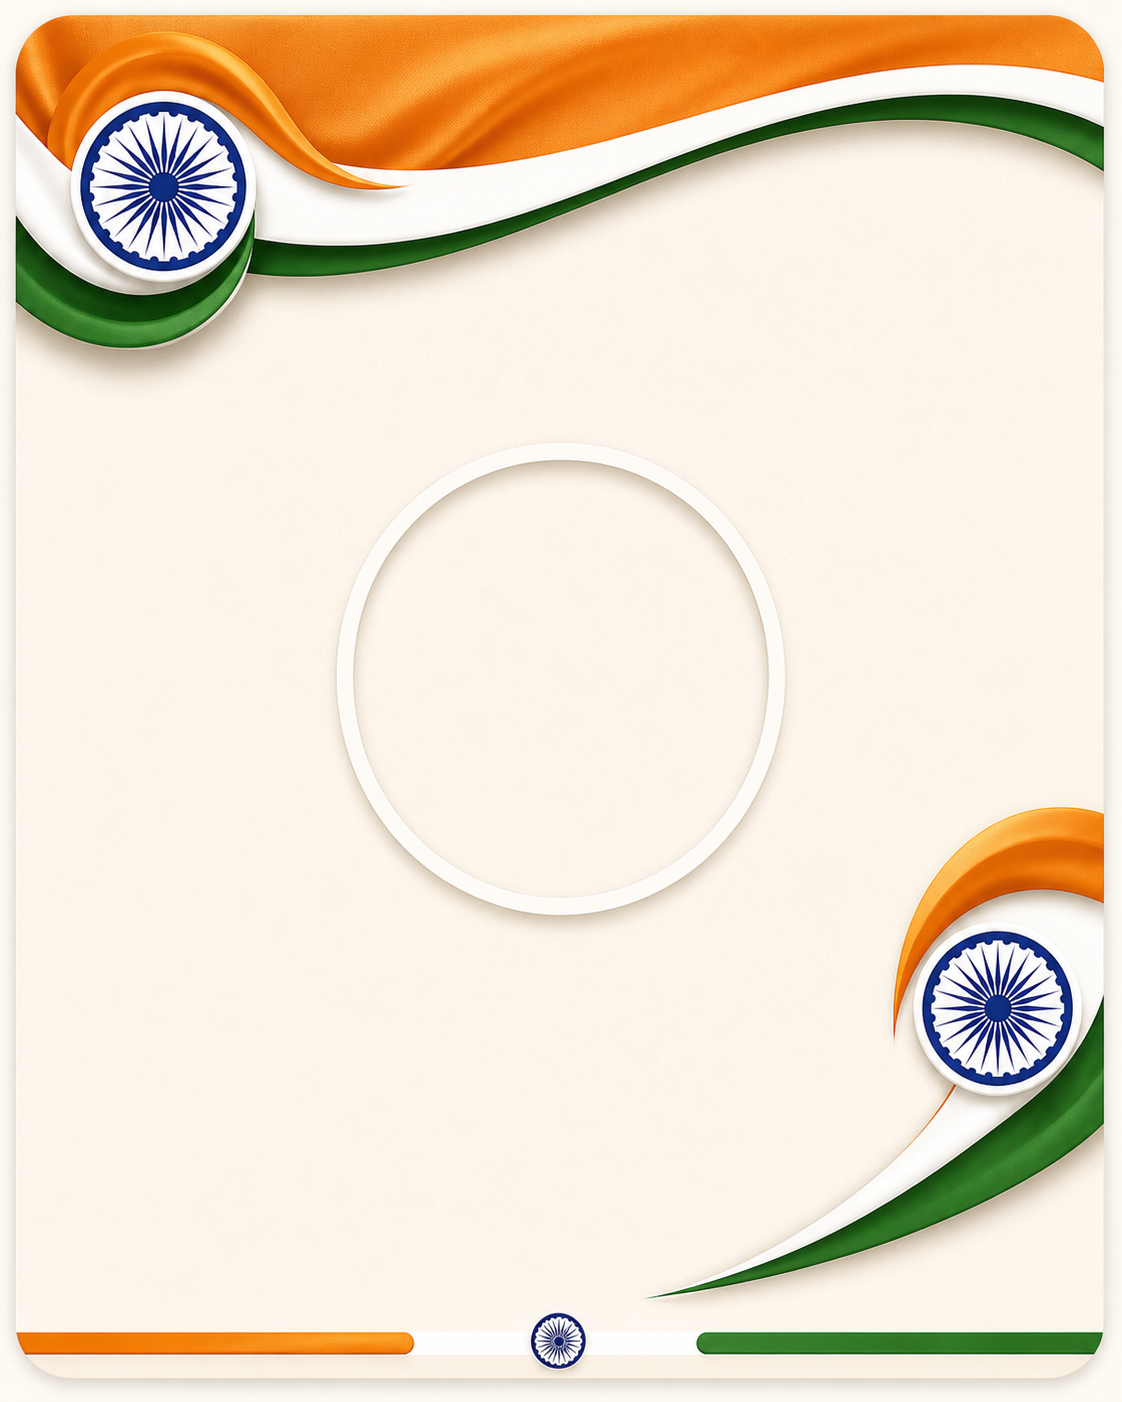
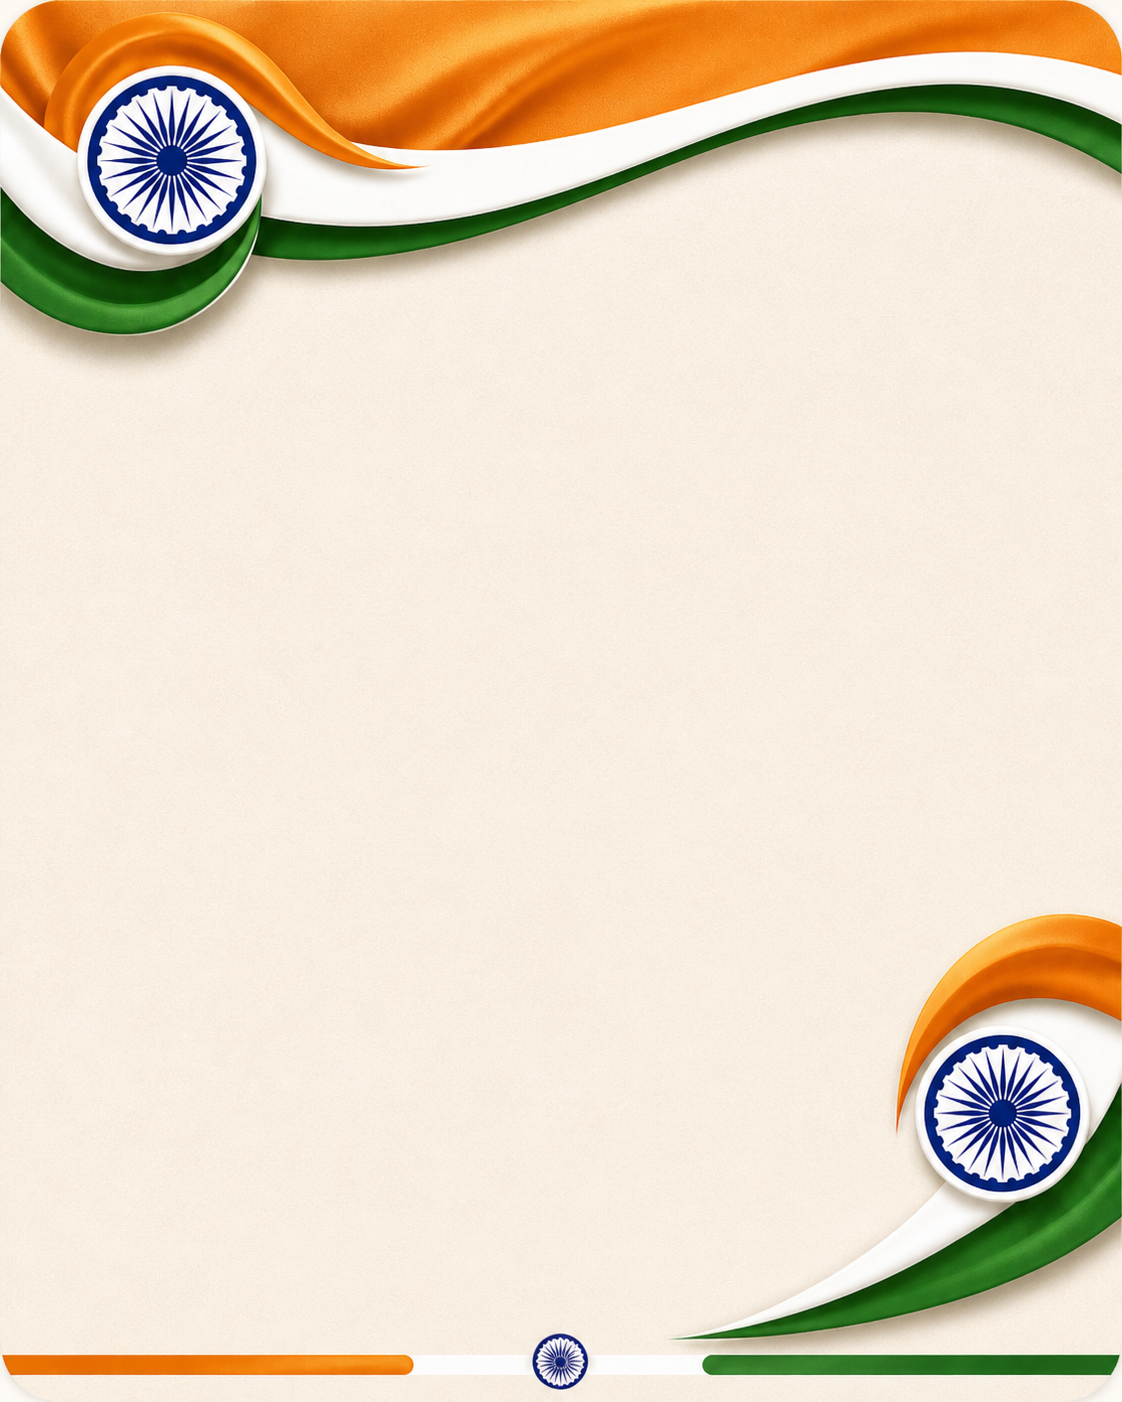
update

diff --git a/docs/app.js b/docs/app.js
@@ -417,6 +417,17 @@ function drawTemplatePhoto(ctx, image, x, y, radius) {
   ctx.restore();
 }
 
+function drawPhotoFrame(ctx, x, y, radius) {
+  ctx.save();
+  ctx.shadowColor = "rgba(7, 27, 58, .18)";
+  ctx.shadowBlur = 22;
+  ctx.fillStyle = "#ffffff";
+  ctx.beginPath();
+  ctx.arc(x, y, radius + 13, 0, Math.PI * 2);
+  ctx.fill();
+  ctx.restore();
+}
+
 // Uses the approved high-quality PNG for flag artwork. Only photo and text
 // are drawn dynamically, so they always stay in their own safe areas.
 function drawCard(canvas, wish, onReady) {
@@ -425,8 +436,8 @@ function drawCard(canvas, wish, onReady) {
   const H = canvas.height;
   const cx = W / 2;
   // These match the template's circular frame and leave a clear title/date gap.
-  const photoY = H * .535;
-  const photoRadius = W * .142;
+  const photoY = H * .53;
+  const photoRadius = W * .15;
   const safeText = (value) => String(value || "").replace(/[<>]/g, "");
 
   Promise.all([
@@ -438,17 +449,19 @@ function drawCard(canvas, wish, onReady) {
     ctx.textAlign = "center";
     ctx.fillStyle = "#10458f";
     ctx.font = "800 58px Arial, sans-serif";
-    ctx.fillText("HAPPY INDEPENDENCE DAY", cx, H * .325);
+    ctx.fillText("HAPPY INDEPENDENCE DAY", cx, H * .30);
     ctx.fillStyle = "#65738b";
     ctx.font = "600 32px Arial, sans-serif";
-    ctx.fillText("15 AUGUST • JAI HIND", cx, H * .365);
+    ctx.fillText("15 AUGUST • JAI HIND", cx, H * .34);
 
     if (photo) {
+      drawPhotoFrame(ctx, cx, photoY, photoRadius);
       drawTemplatePhoto(ctx, photo, cx, photoY, photoRadius);
     } else {
       ctx.save();
       ctx.fillStyle = "#f7f3eb";
-      ctx.beginPath(); ctx.arc(cx, photoY, photoRadius - 7, 0, Math.PI * 2); ctx.fill();
+      drawPhotoFrame(ctx, cx, photoY, photoRadius);
+      ctx.beginPath(); ctx.arc(cx, photoY, photoRadius, 0, Math.PI * 2); ctx.fill();
       drawChakra(ctx, cx, photoY, photoRadius * .32, "#1d4c9a");
       ctx.restore();
     }
@@ -471,13 +484,14 @@ function drawCard(canvas, wish, onReady) {
       ctx.textAlign = "center";
       ctx.fillStyle = "#10458f";
       ctx.font = "800 58px Arial, sans-serif";
-      ctx.fillText("HAPPY INDEPENDENCE DAY", cx, H * .325);
+      ctx.fillText("HAPPY INDEPENDENCE DAY", cx, H * .30);
       ctx.fillStyle = "#65738b";
       ctx.font = "600 32px Arial, sans-serif";
-      ctx.fillText("15 AUGUST • JAI HIND", cx, H * .365);
+      ctx.fillText("15 AUGUST • JAI HIND", cx, H * .34);
       ctx.save();
       ctx.fillStyle = "#f7f3eb";
-      ctx.beginPath(); ctx.arc(cx, photoY, photoRadius - 7, 0, Math.PI * 2); ctx.fill();
+      drawPhotoFrame(ctx, cx, photoY, photoRadius);
+      ctx.beginPath(); ctx.arc(cx, photoY, photoRadius, 0, Math.PI * 2); ctx.fill();
       drawChakra(ctx, cx, photoY, photoRadius * .32, "#1d4c9a");
       ctx.restore();
       ctx.fillStyle = "#142f63";
